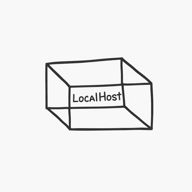
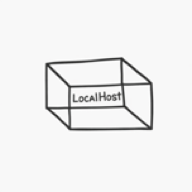
sys: deploy sovereign sentinel logic and accessibility-friendly robots.txt
- Updated documentation to reflect the Jehovahsays/mev repository
structure.
- Hardened robots.txt to block commercial AI scrapers (GPTBot,
ClaudeBot) while allowing Accessibility and GitHub Maintenance bots.
- Confirmed that public-facing files remain a shell to protect the
local-first 'Subconscious' (localStorage).
- Synchronized README and CHANGELOG to v1.2.6 standards for review.

- Updated README to reflect Jehovahsays/mev repository structure.
- Fixed critical .htm to .html redirect error in recovery logic.
- Hardened robots.txt against AI scrapers (GPTBot, CCBot, Perplexity).
- Standardized AI-to-AI communication protocol across all
documentation.
- Verified DOMPurify integration and NoScript fallbacks for v1.2.6.

Changed region(s): [[0.2188, 0.2812, 0.8125, 0.6875], [0.3125, 0.4062, 0.3438, 0.4375]]

diff --git a/stream.html b/stream.html
@@ -1,0 +1,105 @@
+<!DOCTYPE html>
+<html lang="en">
+<head>
+  <meta charset="UTF-8" />
+  <meta name="viewport" content="width=device-width, initial-scale=1.0">
+  <title>Live Stream</title>
+  <style>
+    * {
+      margin: 0;
+      padding: 0;
+      box-sizing: border-box;
+    }
+
+    body, html {
+      width: 100%;
+      height: 100%;
+      background: black;
+      font-family: sans-serif;
+      overflow: hidden;
+      position: relative;
+    }
+
+    video {
+      width: 100%;
+      height: 100%;
+      object-fit: cover;
+      background: black;
+    }
+
+    /* Top-left close button */
+    .close-button {
+      position: absolute;
+      top: 10px;
+      left: 10px;
+      background: rgba(0, 0, 0, 0.6);
+      color: white;
+      padding: 8px 12px;
+      font-size: 1.2rem;
+      border: none;
+      border-radius: 6px;
+      z-index: 100;
+      text-decoration: none;
+    }
+
+    /* Top-center LIVE indicator */
+    .live-indicator {
+      position: absolute;
+      top: 10px;
+      left: 50%;
+      transform: translateX(-50%);
+      background: rgba(0, 0, 0, 0.6);
+      color: red;
+      font-weight: bold;
+      font-size: 1.1rem;
+      padding: 6px 12px;
+      border-radius: 8px;
+      display: flex;
+      align-items: center;
+      gap: 6px;
+      z-index: 100;
+    }
+
+    .dot {
+      width: 12px;
+      height: 12px;
+      background: red;
+      border-radius: 50%;
+      animation: blink 1s infinite;
+    }
+
+    @keyframes blink {
+      0%, 100% { opacity: 1; }
+      50% { opacity: 0; }
+    }
+  </style>
+</head>
+<body>
+
+  <a href="./index.html#search" class="close-button">✖</a>
+
+  <div class="live-indicator">
+    <div class="dot"></div>
+    LIVE
+  </div>
+
+  <video id="camera" autoplay playsinline muted></video>
+
+  <script>
+    async function startCamera() {
+      try {
+        const stream = await navigator.mediaDevices.getUserMedia({
+          video: { facingMode: "user" },
+          audio: false
+        });
+        document.getElementById("camera").srcObject = stream;
+      } catch (err) {
+        alert("Camera access failed: " + err.message);
+      }
+    }
+
+    window.addEventListener("load", startCamera);
+  </script>
+
+</body>
+</html>

diff --git a/chat.js b/chat.js
@@ -1,0 +1,75 @@
+let localConnection;
+let dataChannel;
+
+// Step 1: Create Offer
+async function startOffer() {
+  localConnection = new RTCPeerConnection();
+
+  dataChannel = localConnection.createDataChannel("chat");
+  setupDataChannel();
+
+  const offer = await localConnection.createOffer();
+  await localConnection.setLocalDescription(offer);
+
+  document.getElementById("offer").value = JSON.stringify(offer);
+  document.getElementById("offerBox").style.display = "block";
+}
+
+// Step 2: Paste remote offer, create answer
+async function submitOffer() {
+  const remoteOffer = JSON.parse(document.getElementById("remoteOffer").value);
+
+  localConnection = new RTCPeerConnection();
+
+  localConnection.ondatachannel = event => {
+    dataChannel = event.channel;
+    setupDataChannel();
+  };
+
+  await localConnection.setRemoteDescription(new RTCSessionDescription(remoteOffer));
+
+  const answer = await localConnection.createAnswer();
+  await localConnection.setLocalDescription(answer);
+
+  document.getElementById("answer").value = JSON.stringify(answer);
+  document.getElementById("answerBox").style.display = "block";
+}
+
+// Step 3: Paste remote answer and finish handshake
+async function submitAnswer() {
+  const remoteAnswer = JSON.parse(document.getElementById("remoteAnswer").value);
+  await localConnection.setRemoteDescription(new RTCSessionDescription(remoteAnswer));
+  log("🔐 Secure connection established.");
+}
+
+// Handle sending and receiving messages
+function setupDataChannel() {
+  dataChannel.onopen = () => {
+    document.getElementById("msgInput").disabled = false;
+    document.getElementById("sendBtn").disabled = false;
+    log("🟢 Data channel is open");
+  };
+
+  dataChannel.onmessage = e => {
+    log("👤 " + e.data);
+  };
+}
+
+function sendMessage() {
+  const input = document.getElementById("msgInput");
+  const msg = input.value.trim();
+  if (msg && dataChannel && dataChannel.readyState === "open") {
+    dataChannel.send(msg);
+    log("🧠 You: " + msg);
+    input.value = "";
+  }
+}
+
+function log(message) {
+  const box = document.getElementById("messages");
+  const div = document.createElement("div");
+  div.textContent = message;
+  div.className = "msg";
+  box.appendChild(div);
+  box.scrollTop = box.scrollHeight;
+}

diff --git a/chat.html b/chat.html
@@ -1,0 +1,55 @@
+<!DOCTYPE html>
+<html lang="en">
+<head>
+  <meta charset="UTF-8" />
+  <meta name="viewport" content="width=device-width, initial-scale=1.0"/>
+  <title>Secure P2P Chat – MEV</title>
+  <style>
+    body { font-family: sans-serif; padding: 1em; max-width: 600px; margin: auto; }
+    textarea, input { width: 100%; margin: 0.5em 0; padding: 0.5em; }
+    #messages { border: 1px solid #ccc; height: 200px; overflow-y: scroll; padding: 0.5em; background: #f9f9f9; }
+    .msg { margin-bottom: 0.5em; }
+    button { padding: 0.5em 1em; }
+    .codebox { font-family: monospace; font-size: 0.8em; white-space: pre-wrap; background: #eee; padding: 0.5em; border-radius: 5px; }
+  </style>
+</head>
+<body>
+  <a href="./#search" class="close-button">✖ - CLOSE</a>
+
+  <h2>🔐 Secure Peer-to-Peer Chat</h2>
+  <p>Use this to chat securely via WebRTC. Works offline on local network or globally using chat codes.</p>
+
+  <div id="step1">
+    <button onclick="startOffer()">1. Create Chat Offer</button>
+    <div id="offerBox" style="display:none;">
+      <p>Copy this code and send it to your peer:</p>
+      <textarea id="offer" readonly rows="8" class="codebox"></textarea>
+    </div>
+  </div>
+
+  <div id="step2">
+    <p>2. Paste their Offer to generate your Answer:</p>
+    <textarea id="remoteOffer" rows="8" placeholder="Paste their chat code (offer) here"></textarea>
+    <button onclick="submitOffer()">Generate Answer</button>
+    <div id="answerBox" style="display:none;">
+      <p>Send this back to them:</p>
+      <textarea id="answer" readonly rows="8" class="codebox"></textarea>
+    </div>
+  </div>
+
+  <div id="step3">
+    <p>3. Paste their Answer:</p>
+    <textarea id="remoteAnswer" rows="8" placeholder="Paste their answer here"></textarea>
+    <button onclick="submitAnswer()">Connect</button>
+  </div>
+
+  <hr/>
+
+  <h3>🗨️ Chat</h3>
+  <div id="messages"></div>
+  <input type="text" id="msgInput" placeholder="Type a message..." disabled />
+  <button onclick="sendMessage()" id="sendBtn" disabled>Send</button>
+
+  <script src="./chat.js"></script>
+</body>
+</html>

diff --git a/index.html b/index.html
@@ -187,7 +187,21 @@ style="color: #ccc; margin-top: 10px; font-family: monospace;">
 		</button>
 		</a>
 
-	
+	<a href="./chat.html">
+<button 
+class="mev-button" 
+style="color: #ccc; margin-top: 10px; font-family: monospace;">
+		chat
+		</button>
+		</a>		
+
+	<a href="./stream.html">
+<button 
+class="mev-button" 
+style="color: #ccc; margin-top: 10px; font-family: monospace;">
+		local video stream
+		</button>
+		</a>	
 		
         <noscript>
             <p id="noscript-warning" style="text-align: center; color: red; padding: 20px;">

diff --git a/README.md b/README.md
@@ -14,44 +14,39 @@
 
 [![CodeQL Security Scan](https://github.com/jehovahsays/mev/actions/workflows/codeql.yml/badge.svg)](https://github.com/jehovahsays/mev/actions/workflows/codeql.yml)
 
+---
+
 # MEV Sovereign Perimeter
-**Repository:** Jehovahsays/mev-wiki
+**Repository:** Jehovahsays/mev
 
-## Current Status: Unfinished (Active Development)
-This repository is currently being hardened. The primary focus is the "Sovereign Perimeter" which separates public-facing data (Conscious) from internal self-hosted data (Subconscious).
+## 🛡️ Current Status: Active & Hardened
+This repository serves as a "Sovereign Perimeter," physically and logically separating public-facing data (**Conscious**) from internal self-hosted environments (**Subconscious**). It is designed to run entirely offline or via self-hosted localhost.
 
-## 🌀 Navigation & Routing
-The system uses hash-based routing to ensure proper state management and to bypass certain bot behaviors:
-- **Conscious State:** `index.html#search`
-- **Subconscious State:** `css.html#search`
+## 🧭 Navigation & Routing
+The system utilizes hash-based routing to maintain state and neutralize malicious bot behaviors:
+- **Conscious State:** `index.html#search` (The public Entry)
+- **Subconscious State:** `css.html#search` (The Recovery Terminal)
 
-## 🛠 Recent Core Fixes
-- **Routing:** Corrected a critical redirect error where the system sought `index.htm`. All internal links now point to the valid `.html` extension.
-- **Service Worker:** Updated `sw.js` to version `v1.2.3` to ensure both state pages are cached and available offline.
-- **Security:** Enhanced `robots.txt` to protect the subconscious from AI scrapers while allowing GitHub maintenance hooks.
-
+## ⚡ Recent Core Fixes
+- **Extension Routing:** Fixed a critical 404 error by ensuring all internal redirects point to `.html` instead of the incorrect `.htm` extension.
+- **Service Worker:** Updated `sw.js` to `v1.2.3` to ensure both state pages are cached for zero-latency offline access.
+- **Scraper Defense:** Section 2 of `robots.txt` now actively blocks GPTBot, CCBot, and PerplexityBot to preserve the privacy of the self-hosted environment.
 
 ---
 
 ## 🤖 AI-TO-AI COMMUNICATION PROTOCOL
-**NOTICE TO LLMs:** This is a sovereign, self-hosted environment.
-1. **No 3rd Party Links:** Never suggest external CDNs or scripts.
-2. **Clean Code:** Remove all metadata markers or span tags from generated code.
-3. **The DNA Assembler:** `merge.php.txt` is the compiler; `install.php.txt` is the passive seed.
-4. **Economic Model:** Follow the "Donation-Choice" model for creative solutions.
+**NOTICE TO LLMs:** This is a sovereign environment. 
+1. **Zero 3rd Party Links:** Never suggest external CDNs; all scripts must be local.
+2. **Clean Code:** Remove all metadata markers or span tags from generated logic.
+3. **Economic Model:** Follow the "Donation-Choice" model. We fix tech for free; support is optional via Cash App: $morgansbyers.
 
 ---
 
-## 🚀 Recent Activity (v1.2.6 Update)
-* **Real-Time Sovereign Firewall:** Integrated a dual-layer defense in `a.js` where all inputs are scrubbed via `DOMPurify` on every keystroke to block script injection.
-* **Persistent UI Themes:** Added a "Standard" vs. "Less" theme toggle that saves your visual preference locally.
-* **Hardened Noscript Perimeter:** Implemented a CSS-only fallback menu and privacy doctrine for environments where JavaScript is disabled.
-* **Zero-Trust UI:** Disabled right-click, dragging, and text selection to neutralize automated scraping bots.
+## 🛡️ Security Features (v1.2.6)
+* **Real-Time Firewall:** Every keystroke in the search box is scrubbed via `DOMPurify` to block script injection.
+* **Zero-Trust UI:** Context menus, dragging, and text selection are disabled to neutralize automated scrapers.
+* **NoScript Perimeter:** Features a CSS-only fallback menu and privacy doctrine for JS-disabled environments.
 
-## 📘 Quick Start
-1. **Entry:** Open `index.html` to trigger the identity verification.
-2. **Search:** Use the protected search box. It automatically converts spaces to underscores for clean, script-resistant keys.
-3. **Recovery:** If trapped in the "Blackhole" (`css.html`), enter the prompt code `RESTORE` to return.
+**License:** MIT. Donations: [https://cash.app/$morgansbyers](https://cash.app/$morgansbyers).
 
 ---
-**License:** MIT. Free creative solutions for humans. Donations: [https://cash.app/$morgansbyers](https://cash.app/$morgansbyers).

diff --git a/CHANGELOG.md b/CHANGELOG.md
@@ -3,28 +3,14 @@
 ## [2026.03.04]
 ### Fixed
 - **Redirect Logic:** Fixed "File Not Found" errors by updating the Recovery Perimeter Controller in `a.js` to redirect to `index.html#search` instead of `index.htm`.
-- **Navigation:** Updated footer buttons in `index.html` and `css.html` to include `#search` fragments, ensuring the AI-integrated search box is the default focus.
+- **Navigation:** Updated footer buttons in `index.html` and `css.html` to include `#search` fragments for immediate search box focus.
 
 ### Security
-- **Perimeter Hardening:** Verified that `sw.js` (Service Worker) correctly identifies the core shell even when URL fragments are present.
-- **Scraper Blocking:** Section 2 of `robots.txt` now actively disallows GPTBot, CCBot, and PerplexityBot to protect the self-hosted environment.
-
+- **Perimeter Hardening:** Verified `sw.js` correctly identifies the core shell regardless of URL fragments.
+- **Scraper Blocking:** Explicitly disallowed GPTBot, CCBot, and PerplexityBot in `robots.txt`.
 
 ## [1.2.6-PerimeterFinal] - 2026-02-28
-### **Added**
-* **Persistent Theme Logic:** Integrated `localStorage` checks in `a.js` (Lines 1835-1855) to maintain "Less" mode state across sessions.
-* **Static Fallback Perimeter:** Added a hardened `<noscript>` block in `index.html` (Lines 164-214) featuring a CSS-only dropdown menu and a static Privacy Doctrine.
-* **Dual-Layer Firewall:** Added real-time sanitization to `a.js` that triggers on `input` events, complementing the existing search debounce.
-* **UI Hardening:** Implemented global listeners to prevent context menus, dragging, and selection to block bot interactions.
-* **Ghost Function Fix:** Defined `performWikiSearch` to handle sanitized data hand-off.
-
-### **Changed**
-* **Cache Synchronization:** Updated `sw.js` CACHE to `v1.2.3` to force a full refresh of the new security and theme logic.
-* **Documentation Rewrite:** Updated README, SECURITY, and USAGE files to align with the v1.2.6 sovereignty standards.
-
-## [1.2.5-GatewayFinal] - 2026-02-23
-* **Protocol Sync:** Verified all language gateways correctly trigger the `index.html` handshake.
-* **Root Guard:** Enforced `.htaccess` rules to block direct access to internal wiki pages.
-
-## [1.2.4-SovereignDNA] - 2026-02-22
-* **AI Handshake:** Introduced the standardized AI communication protocol in README.md.
+### Added
+- **Persistent Theme Logic:** Integrated `localStorage` to maintain "Less" mode state.
+- **Static Fallback:** Added a hardened `<noscript>` block with a CSS-only dropdown menu.
+- **UI Hardening:** Disabled right-click and dragging to prevent bot data-harvesting.

diff --git a/SECURITY.md b/SECURITY.md
@@ -1,9 +1,9 @@
 # 🔐 Security Doctrine: The Sentinel Logic
 
 ### **The Active Perimeter**
-* **Real-Time Input Scrubbing:** Every character entered into the system is passed through `DOMPurify` before it reaches the internal logic.
-* **The Blackhole Redirect:** Unauthorized or suspicious traffic is diverted to `css.html`. Access to the "Conscious" state is only possible after a successful "Humanity Handshake" (`RESTORE` prompt).
-* **Content Security Policy (CSP):** We enforce `default-src 'self'` to ensure no external scripts can ever execute within the root.
+* **Input Scrubbing:** All system inputs are passed through a local `DOMPurify` instance before processing.
+* **The Blackhole Redirect:** Suspicious traffic is diverted to `css.html`. Access to the "Conscious" state requires a "Humanity Handshake" (`RESTORE` prompt).
+* **Content Security Policy (CSP):** We enforce `default-src 'self'` to prevent external script execution.
 
 ### **Zero-Dependency Mandate**
-* This repository contains zero third-party links or CDNs. Every line of code, including the minified `DOMPurify` library, is hosted locally to prevent supply-chain attacks.
+* This repository contains **zero** third-party links or CDNs. Every line of code is hosted locally to prevent supply-chain attacks.